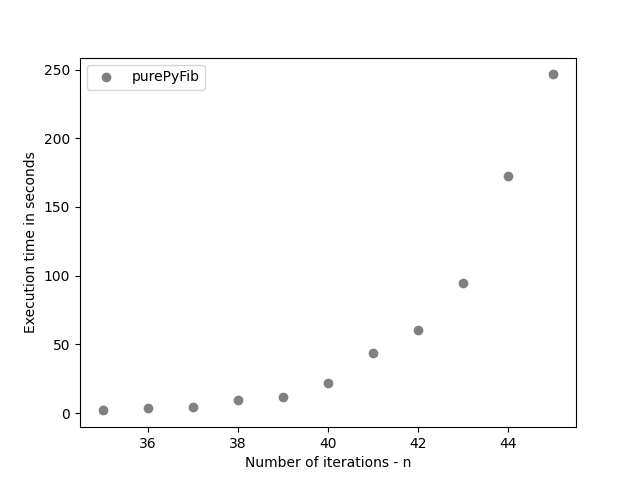
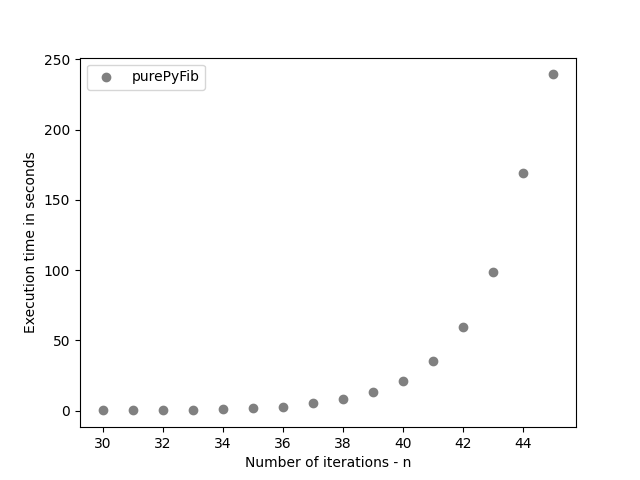
Final commite for MA4

diff --git a/Pyhton_Assignments/MA4/MA4_files/MA4.py b/Pyhton_Assignments/MA4/MA4_files/MA4.py
@@ -189,17 +189,17 @@ def main():
     '''
     import time
     print("\n **** Numba Py timings ****")
-    timeStamps_numba = fn_timing_on_fib(fib_numba_python, 35 ,45)
+    timeStamps_numba = fn_timing_on_fib(fib_numba_python, 30 ,45)
     plot_timings(timeStamps_numba, "numbPyFib")
     time.sleep(1)
 
     print("\n **** C++ Integratiopn timinings ****")
-    timeStamps_cpp = fn_timing_on_fib(fib, 35 ,45)
+    timeStamps_cpp = fn_timing_on_fib(fib, 30 ,45)
     plot_timings(timeStamps_cpp, "cppFib")
     time.sleep(1)
 
     print("\n **** Pure Python timinings ****")
-    timeStamps_purepy = fn_timing_on_fib(fib_pure_python, 35 ,45)
+    timeStamps_purepy = fn_timing_on_fib(fib_pure_python, 30 ,45)
     plot_timings(timeStamps_purepy, "purePyFib")
 
     plot_allinOne(timeStamps_purepy, timeStamps_numba, timeStamps_cpp)
